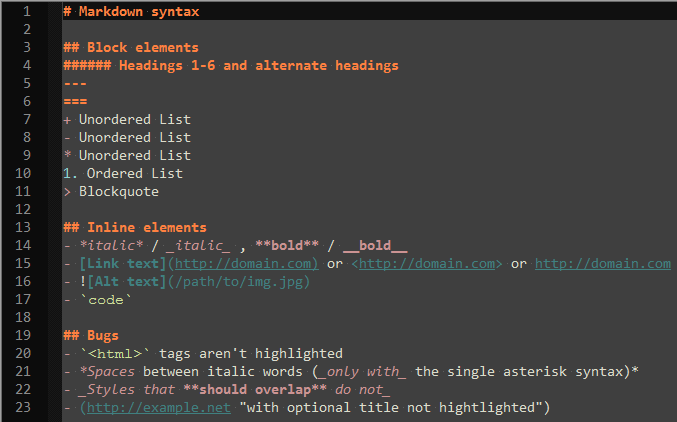
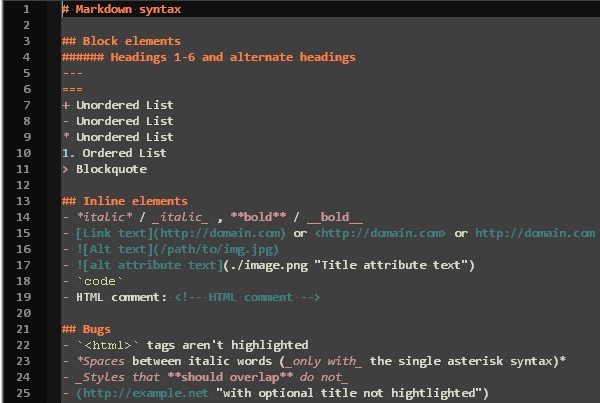
Changes back the color of the new links using "comment lines" to the "link color" for all themes (it was the same color as the titles).
Changes the debug theme to correctly use nesting (e.g. allowing to have bold or italic inside titles) and to use the same text styles it had before (underlined links, titles & numbers).

Changes all the screenshots to correctly reflect the changes both in the themes and the "tests.md" file.

Adds a link to the debug theme to the README.

Changed region(s): [[0.0, 0.0, 1.0, 1.0], [0.42, 0.7146, 0.51, 0.7444], [0.33, 0.7146, 0.39, 0.7444]]

diff --git a/README.md b/README.md
@@ -4,7 +4,7 @@
 
 This project provides a very simple user-defined language file for Notepad++ that does some basic syntax highlighting for Markdown texts. It does **not** render text from Markdown into HTML (but there are scripts that can do that, too, Google is your friend).
 
-@ianchanning additions: Created Twilight theme, imported Zenburn theme from [@Edditoria's fork](https://github.com/Edditoria/markdown_npp_zenburn)
+@ianchanning additions: Created Twilight theme, imported Zenburn theme from [@Edditoria's fork](https://github.com/Edditoria/markdown_npp_zenburn)  
 @Hyzual additions: Created Obsidian theme
 
 ## Usage
@@ -13,6 +13,7 @@ Notepad++ allows you to add new languages by adding language definitions to a us
 
 1. Download the Markdown language definition file 
    [default theme](https://raw.github.com/thomsmits/markdown_npp/master/default_theme/userDefineLang.xml)
+   | [debug theme](https://raw.github.com/thomsmits/markdown_npp/master/debug_theme/userDefineLang.xml)
    | [Twilight theme](https://raw.github.com/thomsmits/markdown_npp/master/twilight_theme/userDefineLang.xml)
    | [Zenburn theme](https://raw.github.com/thomsmits/markdown_npp/master/zenburn_theme/userDefineLang.xml)
    | [Obsidian theme](https://raw.github.com/thomsmits/markdown_npp/master/obsidian_theme/userDefineLang.xml)
